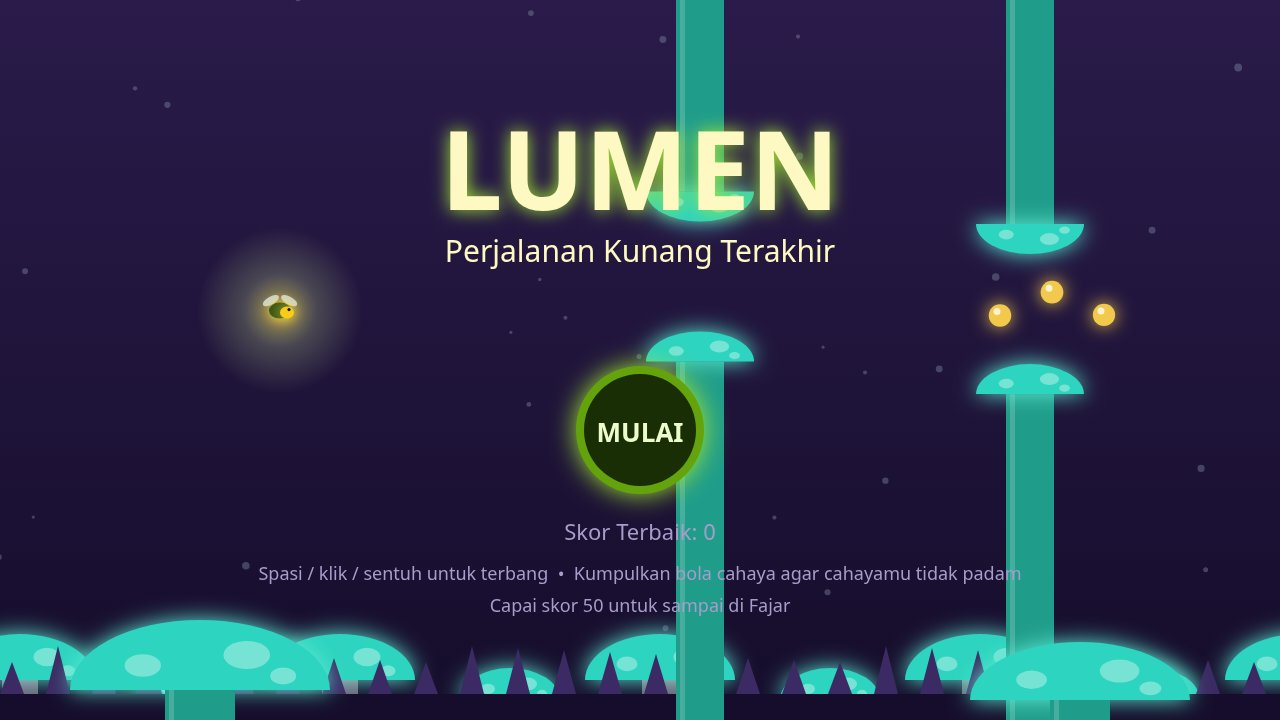
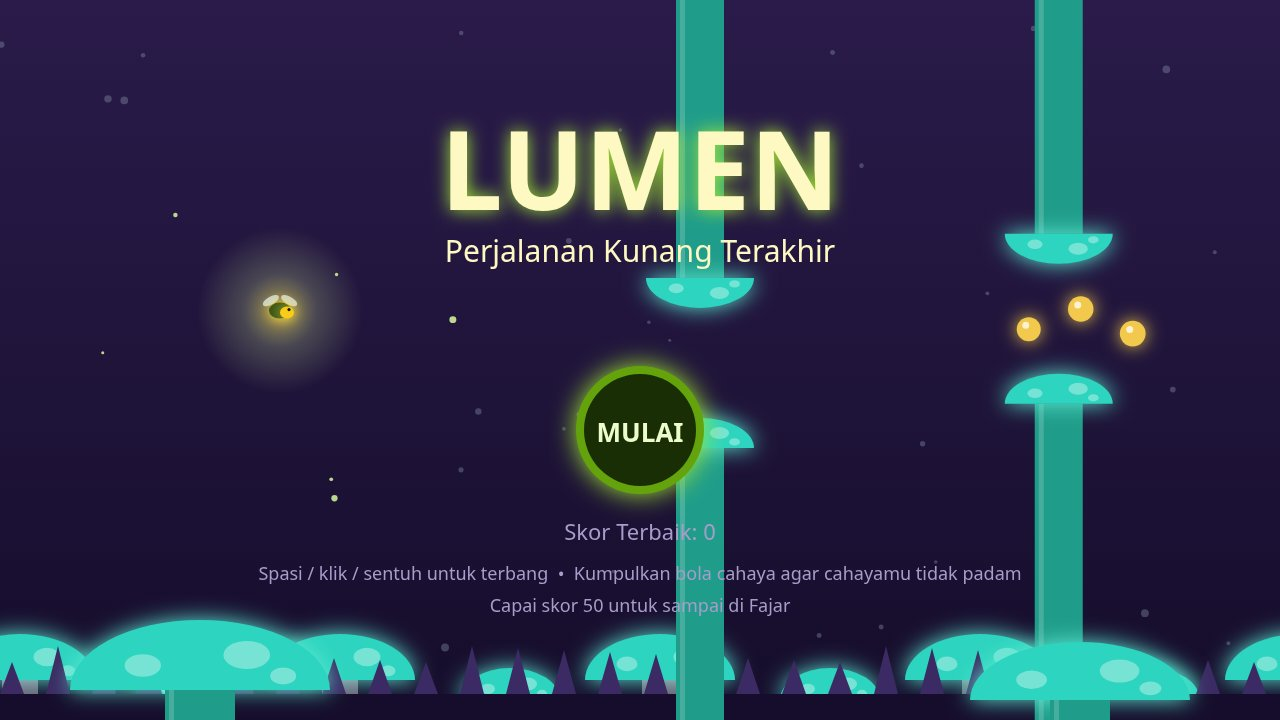
LUMEN patch: hidden-in-dark trap, win title, variable gap spacing

Changed region(s): [[0.75, 0.0, 0.9062, 0.9167], [0.5, 0.2444, 0.5938, 0.6417], [0.7812, 0.9472, 0.8125, 1.0]]

diff --git a/game/src/render.js b/game/src/render.js
@@ -3,7 +3,8 @@
 // colour. The firefly's glow is a radial gradient; mushrooms, vines and orbs are flat canvas
 // shapes with a soft glow. The HUD is variant B: the score on a glowing mushroom cap, the
 // light meter as a hanging lantern, the best on a wooden sign, and a small round pause button.
-import { FIELD, FONT, GAP, PALETTES, WIN_SCORE } from './config.js';
+import { FIELD, FONT, GAP, HIDDEN, PALETTES, WIN_SCORE } from './config.js';
+import { hiddenAlpha } from './world.js';
 
 export const SCREEN_TITLE = 'title';
 export const SCREEN_PLAY = 'play';
@@ -152,7 +153,7 @@ export function createRenderer(canvas) {
     text(gap.windDir > 0 ? '▼ angin' : '▲ angin', gap.x, gap.gapY - 150, 18, palette.text, 'center', '600');
   }
 
-  function drawGap(gap, palette) {
+  function drawGap(gap, palette, fireflyX) {
     const top = gap.gapY - gap.gapH / 2;
     const bottom = gap.gapY + gap.gapH / 2;
     const stemW = GAP.width - 26;
@@ -209,6 +210,39 @@ export function createRenderer(canvas) {
       }
     }
     if (gap.trap === 'wind') drawWind(gap, palette);
+    if (gap.trap === 'hidden') {
+      // A thorn cluster hidden in the dark: near-invisible while far away, fading
+      // in with a gold glow as the firefly's light reaches it, in time to react.
+      const alpha = hiddenAlpha(Math.max(0, gap.x - fireflyX));
+      const revealed = alpha > 0.6;
+      context.save();
+      context.globalAlpha = alpha;
+      if (revealed) {
+        context.shadowColor = '#fde047';
+        context.shadowBlur = 16;
+      }
+      context.fillStyle = '#171233';
+      context.strokeStyle = revealed ? '#fde047' : '#3b2a63';
+      context.lineWidth = 1.5;
+      for (let i = 0; i < 5; i += 1) {
+        const angle = -Math.PI / 2 + i * (Math.PI * 2 / 5);
+        const tipX = gap.x + Math.cos(angle) * HIDDEN.radius;
+        const tipY = gap.hiddenY + Math.sin(angle) * HIDDEN.radius;
+        const baseA = angle + 0.3;
+        const baseB = angle - 0.3;
+        context.beginPath();
+        context.moveTo(tipX, tipY);
+        context.lineTo(gap.x + Math.cos(baseA) * 9, gap.hiddenY + Math.sin(baseA) * 9);
+        context.lineTo(gap.x + Math.cos(baseB) * 9, gap.hiddenY + Math.sin(baseB) * 9);
+        context.closePath();
+        context.fill();
+        context.stroke();
+      }
+      context.restore();
+      if (revealed) {
+        text('!', gap.x, gap.hiddenY - HIDDEN.radius - 14, 26, '#fde047', 'center', '700');
+      }
+    }
   }
 
   function drawVine(vine, palette) {
@@ -418,7 +452,7 @@ export function createRenderer(canvas) {
     }
   }
 
-  function drawPanel(title, lines, prompt, accent) {
+  function drawPanel(title, lines, prompt, accent, titleSize = 46) {
     const height = 150 + lines.length * PANEL.line + 90;
     const x = (FIELD.width - PANEL.width) / 2;
     const y = (FIELD.height - height) / 2;
@@ -431,7 +465,7 @@ export function createRenderer(canvas) {
     context.roundRect(x, y, PANEL.width, height, 18);
     context.fill();
     context.restore();
-    glowText(title, FIELD.width / 2, y + 74, 46, '#fef9c3', accent || '#f2c94c');
+    glowText(title, FIELD.width / 2, y + 74, titleSize, '#fef9c3', accent || '#f2c94c');
     for (let i = 0; i < lines.length; i += 1) {
       text(lines[i], FIELD.width / 2, y + 140 + i * PANEL.line, 22, '#e2e8f0', 'center');
     }
@@ -474,7 +508,15 @@ export function createRenderer(canvas) {
       '',
       'Fajar terbit. Hutan kembali terang.',
     ];
-    drawPanel('FAJAR TIBA', lines, 'Klik TERUS TERBANG untuk lanjut, atau tekan R untuk main lagi', '#fbbf24');
+    // Fit the full win title inside the panel: shrink from 46 until it fits.
+    const winTitle = 'FAJAR TIBA, Kamu Sampai!';
+    let titleSize = 46;
+    context.font = font(titleSize, '700');
+    while (titleSize > 32 && context.measureText(winTitle).width > PANEL.width - 40) {
+      titleSize -= 2;
+      context.font = font(titleSize, '700');
+    }
+    drawPanel(winTitle, lines, 'Klik TERUS TERBANG untuk lanjut, atau tekan R untuk main lagi', '#fbbf24', titleSize);
     // The two buttons.
     context.save();
     context.fillStyle = '#65a30d';
@@ -501,7 +543,7 @@ export function createRenderer(canvas) {
     context.setTransform(view.scale, 0, 0, view.scale, view.x + shakeX * view.scale, view.y + shakeY * view.scale);
     drawBackground(state);
     for (const gap of state.gaps) {
-      if (gap.active) drawGap(gap, palette);
+      if (gap.active) drawGap(gap, palette, state.firefly.x);
     }
     for (const vine of state.vines) {
       if (vine.active) drawVine(vine, palette);

diff --git a/game/src/world.js b/game/src/world.js
@@ -4,9 +4,19 @@
 // so the caller can react without the world knowing about screens or sound. Nothing here
 // allocates after createWorld returns: every list is a fixed pool.
 import {
-  BANDS, FIELD, FIREFLY, GAP, LIGHT, PALETTES, POWER, SPEED, STEP, WIN_SCORE,
+  BANDS, FIELD, FIREFLY, GAP, HIDDEN, LIGHT, PALETTES, POWER, SPACING, SPEED, STEP, WIN_SCORE,
 } from './config.js';
 import { createFirefly } from './firefly.js';
+
+/** Reveal alpha for a hidden trap at a horizontal distance from the firefly:
+ * near-invisible (dimAlpha) beyond HIDDEN.reveal, fully lit (1.0) within 100 px,
+ * fading linearly in between. At max speed (260 px/s) the reveal starts ~1.1 s
+ * before the firefly reaches the gap; at base speed ~2 s. */
+export function hiddenAlpha(distance) {
+  if (distance >= HIDDEN.reveal) return HIDDEN.dimAlpha;
+  if (distance <= 100) return 1;
+  return HIDDEN.dimAlpha + (1 - HIDDEN.dimAlpha) * (HIDDEN.reveal - distance) / (HIDDEN.reveal - 100);
+}
 
 export const EVENT_SCORE = 1;
 export const EVENT_ORB = 2;
@@ -47,7 +57,7 @@ export function createWorld(random) {
     gaps.push({
       active: false, x: 0, gapY: 0, gapH: 0, passed: false, id: 0,
       trap: '', trapState: 0, trapT: 0, dropY: 0, dropVy: 0,
-      snapY: 0, windDir: 0, narrowFrom: 0, narrowTo: 0,
+      snapY: 0, windDir: 0, narrowFrom: 0, narrowTo: 0, hiddenY: 0,
     });
   }
   const vines = [];
@@ -84,7 +94,7 @@ export function createWorld(random) {
   let gapNumber = 0;
   let bandIndex = -1;
   let guaranteeAt = {};
-  let gapSpacing = GAP.spacing;
+  let gapSpacing = SPACING[0][0];
   let overSent = false;
 
   function speed() {
@@ -151,6 +161,10 @@ export function createWorld(random) {
       planBand(band);
     }
     const def = BANDS[band];
+    // Roll this gap's spacing from its band's range: it is the distance from
+    // this gap to the next one, so the cursor advances by it below (and the
+    // vine between them sits at 65% of it). Hard floor 240 px.
+    gapSpacing = Math.max(240, random.range(SPACING[band][0], SPACING[band][1]));
     gap.active = true;
     gap.x = nextGapX;
     gap.id = gapNumber;
@@ -176,6 +190,14 @@ export function createWorld(random) {
     if (gap.trap === 'drop') {
       gap.dropY = gap.gapY - gap.gapH / 2 - 110;
       gap.dropVy = 0;
+    }
+    if (gap.trap === 'hidden') {
+      // Thorn cluster near the top or bottom edge of the gap (random side), so the
+      // opposite side stays a wide clear path: the cluster nestles against the
+      // mushroom, and the clear side (gapH - 50 px) always fits the firefly's
+      // flap rise (~65 px) with room to spare.
+      const side = random.chance(0.5) ? 1 : -1;
+      gap.hiddenY = gap.gapY + side * (gap.gapH / 2 - 16);
     }
     nextGapX += gapSpacing;
 
@@ -474,6 +496,18 @@ export function createWorld(random) {
         // The extended bar of a snap trap.
         if (gap.trap === 'snap' && gap.trapState === 2) {
           if (circleHitsRect(body.x, body.y, body.radius, gap.x - 70, gap.snapY - 9, 140, 18)) {
+            if (firefly.hit()) {
+              state.shake = 0.35;
+              burst(body.x, body.y, 16, '#f2c94c', 200);
+              events |= EVENT_OVER;
+              return events;
+            }
+            events |= EVENT_HIT;
+          }
+        }
+        // The hidden thorn cluster: a circle at its centre, live from spawn.
+        if (gap.trap === 'hidden') {
+          if (circleHitsCircle(body.x, body.y, body.radius, gap.x, gap.hiddenY, HIDDEN.radius)) {
             if (firefly.hit()) {
               state.shake = 0.35;
               burst(body.x, body.y, 16, '#f2c94c', 200);

diff --git a/game/src/shots.js b/game/src/shots.js
@@ -1,16 +1,18 @@
-// The screenshot scenes behind ?shot=start|play|trap|end. Each one plays the real rules
+// The screenshot scenes behind ?shot=start|play|trap|end|win. Each one plays the real rules
 // forward from a fresh world for a fixed number of steps, steered by an autopilot that aims
 // for the centre of the next gap, so the frame is what a short game really looks like and
 // the same seed always gives the same frame. The play pilot is careful; the end pilot flaps
-// late, so it is caught out once the gaps speed up, as a hurried player is.
+// late, so it is caught out once the gaps speed up, as a hurried player is. The win shot
+// starts one point from the Dawn (score 49) and plays until the win fires.
 import { FIELD, STEP } from './config.js';
-import { EVENT_OVER } from './world.js';
-import { SCREEN_OVER, SCREEN_PLAY, SCREEN_TITLE } from './render.js';
+import { EVENT_OVER, EVENT_WIN } from './world.js';
+import { SCREEN_OVER, SCREEN_PLAY, SCREEN_TITLE, SCREEN_WIN } from './render.js';
 
 const START_SECONDS = 5;
 const PLAY_SECONDS = 24;
 const TRAP_SECONDS = 32;
 const END_LIMIT_SECONDS = 120;
+const WIN_LIMIT_SECONDS = 30;
 
 /** How far below the gap centre the pilot lets the firefly sink before flapping. 25 puts the
  * 65 px hover band inside the safe zone of even the narrowest gap: the band is [centre-40,
@@ -67,11 +69,25 @@ function autopilot(state, margin) {
 }
 
 /**
- * Set `world` to the named scene (start, play, trap or end; any other name is start) and
- * return the screen to draw over it and the best score to show.
+ * Set `world` to the named scene (start, play, trap, end or win; any other name is start)
+ * and return the screen to draw over it and the best score to show.
  */
 export function stageShot(name, world) {
   world.reset();
+  if (name === 'win') {
+    // One point from the Dawn: play forward until the win fires (or the limit is hit).
+    // Traps are cleared while staging so the pilot only has to fly; the win panel and
+    // the dawn background are the subject, and the world still renders for real.
+    world.state.score = 49;
+    let won = false;
+    for (let index = 0; index < WIN_LIMIT_SECONDS / STEP; index += 1) {
+      for (const gap of world.state.gaps) gap.trap = '';
+      const events = world.step(STEP, autopilot(world.state, MARGIN_PLAY), false);
+      if (events & EVENT_WIN) { won = true; break; }
+      if (events & EVENT_OVER) break;
+    }
+    return { screen: won ? SCREEN_WIN : SCREEN_PLAY, best: world.state.score };
+  }
   if (name !== 'play' && name !== 'trap' && name !== 'end') {
     for (let index = 0; index < START_SECONDS / STEP; index += 1) world.step(STEP, false, true);
     return { screen: SCREEN_TITLE, best: 0 };

diff --git a/game/src/config.js b/game/src/config.js
@@ -20,7 +20,17 @@ export const FIREFLY = {
 export const SPEED = { base: 140, perPoint: 4, cap: 260 };
 
 /** Mushroom gap: starting height, shrink per point, floor. */
-export const GAP = { height: 170, shrinkPerPoint: 2, floor: 120, width: 74, spacing: 330 };
+export const GAP = { height: 170, shrinkPerPoint: 2, floor: 120, width: 74 };
+
+/** Horizontal gap spacing per band: [min, max] px, rolled per gap with the
+ * seeded RNG. The rhythm varies and tightens as the score rises; never below
+ * 240 px. */
+export const SPACING = [
+  [320, 400], // 0-5: roomy, for learning
+  [300, 360], // 5-10
+  [280, 340], // 10-20
+  [260, 320], // 20+: tightest
+];
 
 /** Light meter: 0..1. Full meter lasts LIGHT.fullSeconds without an orb. */
 export const LIGHT = { fullSeconds: 25, orbRefill: 0.25, drain: 1 / 25 };
@@ -29,9 +39,13 @@ export const LIGHT = { fullSeconds: 25, orbRefill: 0.25, drain: 1 / 25 };
 export const BANDS = [
   { from: 0, to: 5, traps: [] },
   { from: 5, to: 10, guarantee: ['drop'], extraChance: 0.3, extra: ['drop'] },
-  { from: 10, to: 20, guarantee: ['snap', 'wind'], extraChance: 0.4, extra: ['drop', 'narrow', 'snap', 'wind'] },
-  { from: 20, to: 9999, guarantee: [], extraChance: 0.65, extra: ['drop', 'narrow', 'snap', 'wind'] },
+  { from: 10, to: 20, guarantee: ['snap', 'wind'], extraChance: 0.4, extra: ['drop', 'narrow', 'snap', 'wind', 'hidden'] },
+  { from: 20, to: 9999, guarantee: [], extraChance: 0.65, extra: ['drop', 'narrow', 'snap', 'wind', 'hidden'] },
 ];
+
+/** Hidden-in-dark trap: the distance at which the glow starts revealing it,
+ * the collision radius, and the alpha when it is still far away. */
+export const HIDDEN = { reveal: 280, radius: 20, dimAlpha: 0.12 };
 
 /** Power-ups: how often one appears, and how long each lasts. */
 export const POWER = {
